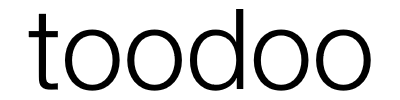
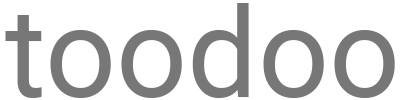
Switched font to Roboto and removed outdated pages

diff --git a/gui/pages/settings.html b/gui/pages/settings.html
@@ -9,19 +9,15 @@
     <script src="https://cdnjs.cloudflare.com/ajax/libs/jquery/3.4.1/jquery.js"></script>
     <link rel="stylesheet" href="https://stackpath.bootstrapcdn.com/bootstrap/4.3.1/css/bootstrap.min.css">
     <link rel="stylesheet" href="styles.css">
+    <link href="https://fonts.googleapis.com/css?family=Roboto&display=swap" rel="stylesheet"> 
     <script>if (window.module) module = window.module;</script>
 
 </head>
 
 <body>
-    <div class="m-1 container">
-        <button class="my-1 btn btn-primary" type="button" onclick="displayUpcomingEvents('upcomingEvents', null)" id="listAllButton">List
-            All</button>
-        <div id="upcomingEvents"></div>
-    </div>
+    <h3>Settings</h3>
 
     <script src="../scripts/menuHandler.js"></script>
-    <script src="../scripts/toodoo.js"></script>
 </body>
 
 </html>

diff --git a/gui/pages/index.html b/gui/pages/index.html
@@ -9,6 +9,7 @@
     <script src="https://cdnjs.cloudflare.com/ajax/libs/jquery/3.4.1/jquery.js"></script>
     <link rel="stylesheet" href="https://stackpath.bootstrapcdn.com/bootstrap/4.3.1/css/bootstrap.min.css">
     <link rel="stylesheet" href="styles.css">
+    <link href="https://fonts.googleapis.com/css?family=Roboto&display=swap" rel="stylesheet"> 
     <script>if (window.module) module = window.module;</script>
 
 </head>
@@ -25,7 +26,6 @@
             <div class="btn-group-vertical" role="group" aria-label="Basic example">
             <a href="addEvent.html" class="btn btn-secondary">Add Event</a>
             <a href="removeEvent.html" class="btn btn-secondary">Remove Event</a>
-            <a href="listEvents.html" class="btn btn-secondary">List Events</a>
             </div>
         </div>
     </div>    

diff --git a/main.js b/main.js
@@ -13,6 +13,7 @@ function createWindow() {
         height: 600,
         webPreferences: {
             nodeIntegration: true,
+            // devTools: false, // This disables developer console if uncommented
         },
         frame: false,
         icon: path.join(__dirname, '/gui/media/toodooIcon.ico'),
@@ -22,7 +23,7 @@ function createWindow() {
 
     mainWindow.loadFile(`${__dirname}/gui/pages/index.html`);
     // Open the DevTools.
-    // mainWindow.webContents.openDevTools()
+    // mainWindow.webContents.openDevTools();
 
     // Emitted when the window is closed.
     mainWindow.on('closed', () => {

diff --git a/gui/pages/addEvent.html b/gui/pages/addEvent.html
@@ -9,6 +9,7 @@
     <script src="https://cdnjs.cloudflare.com/ajax/libs/jquery/3.4.1/jquery.js"></script>
     <link rel="stylesheet" href="https://stackpath.bootstrapcdn.com/bootstrap/4.3.1/css/bootstrap.min.css">
     <link rel="stylesheet" href="styles.css">
+    <link href="https://fonts.googleapis.com/css?family=Roboto&display=swap" rel="stylesheet"> 
     <script>if (window.module) module = window.module;</script>
 
 </head>

diff --git a/gui/pages/removeEvent.html b/gui/pages/removeEvent.html
@@ -9,6 +9,7 @@
     <script src="https://cdnjs.cloudflare.com/ajax/libs/jquery/3.4.1/jquery.js"></script>
     <link rel="stylesheet" href="https://stackpath.bootstrapcdn.com/bootstrap/4.3.1/css/bootstrap.min.css">
     <link rel="stylesheet" href="styles.css">
+    <link href="https://fonts.googleapis.com/css?family=Roboto&display=swap" rel="stylesheet"> 
     <script>if (window.module) module = window.module;</script>
 
 </head>

diff --git a/gui/scripts/menuHandler.js b/gui/scripts/menuHandler.js
@@ -26,6 +26,10 @@ $('body').prepend(`<header class="header">
 </ul>
 </header>`);
 
+$('#settings').click(() => {
+    window.location.replace('../pages/settings.html');
+});
+
 $('#minimize').click(() => {
     win.minimize();
 });

diff --git a/gui/pages/styles.css b/gui/pages/styles.css
@@ -9,6 +9,10 @@ ul {
     list-style: none;
 }
 
+* {
+    font-family: 'Roboto', sans-serif;
+}
+
 /* ---------- Navbar CSS ---------- */
 
 .header,
